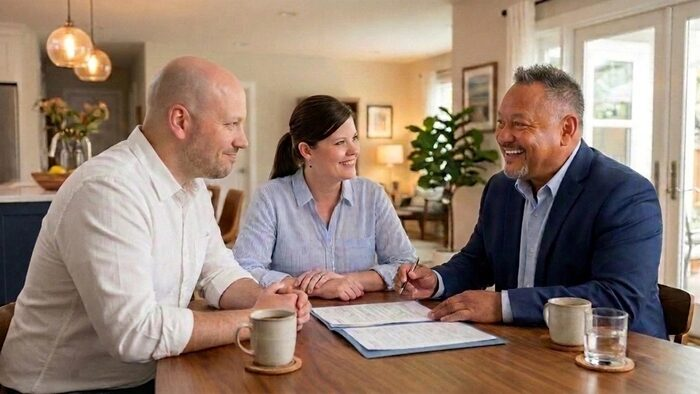
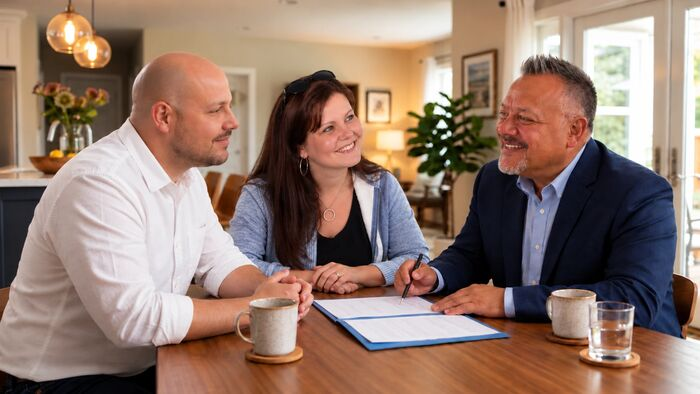
Update picture 3 with higher-resolution kitchen table photo
New photo at 700/1100/1576px (replaces the 967px-max version), so it's
sharp on high-DPI screens; same 16:9 size as picture 2. Version 20261008c.

Claude-Session: https://claude.ai/code/session_01LULKfrfoqBWvdotWMRfoLK

diff --git a/index.html b/index.html
@@ -414,13 +414,13 @@
         <figure class="feature-photo feature-photo--narrow">
           <picture>
             <source type="image/webp"
-                    srcset="assets/kitchen-table-700.webp?v=20261008b 700w, assets/kitchen-table-967.webp?v=20261008b 967w"
+                    srcset="assets/kitchen-table-700.webp?v=20261008c 700w, assets/kitchen-table-1100.webp?v=20261008c 1100w, assets/kitchen-table-1576.webp?v=20261008c 1576w"
                     sizes="(min-width: 820px) 788px, calc(100vw - 32px)">
-            <img src="assets/kitchen-table-967.jpg?v=20261008b"
-                 srcset="assets/kitchen-table-700.jpg?v=20261008b 700w, assets/kitchen-table-967.jpg?v=20261008b 967w"
+            <img src="assets/kitchen-table-1100.jpg?v=20261008c"
+                 srcset="assets/kitchen-table-700.jpg?v=20261008c 700w, assets/kitchen-table-1100.jpg?v=20261008c 1100w, assets/kitchen-table-1576.jpg?v=20261008c 1576w"
                  sizes="(min-width: 820px) 788px, calc(100vw - 32px)"
                  alt="Nate Hall smiling as he goes over paperwork with a couple at their kitchen table"
-                 width="967" height="544" loading="lazy" decoding="async">
+                 width="1576" height="887" loading="lazy" decoding="async">
           </picture>
         </figure>
 

diff --git a/CLAUDE.md b/CLAUDE.md
@@ -89,9 +89,9 @@ Form checkbox values (must match `$allowed` in `contact.php`): `Life insurance`,
   above the "Get to Know Me" heading (`.feature-photo.feature-photo--narrow`, lazy-loaded, responsive `srcset`).
   Its URLs carry `?v=YYYYMMDD` as well — bump it when the photo changes. Cropped to 16:9.
   Owner asked for it to match picture 3: same 16:9 ratio and same width (max 788px, centered).
-- `assets/kitchen-table-{700,967}.{webp,jpg}`: photo of Nate with a couple at a kitchen table, shown above the
-  "Common Questions" heading inside the FAQ's narrow container (same `.feature-photo.feature-photo--narrow` style, versioned URLs).
-  The original is only 975px wide, which is why it sits in the narrower FAQ column instead of full width.
+- `assets/kitchen-table-{700,1100,1576}.{webp,jpg}`: photo of Nate with a couple at a kitchen table, shown above the
+  "Common Questions" heading inside the FAQ's narrow container (same `.feature-photo.feature-photo--narrow` style,
+  versioned URLs). Same 16:9 ratio and width as picture 2 (max 788px, centered).
 - `assets/handshake-{500,840}.{webp,jpg}`: portrait (2:3) photo of Nate shaking hands with two clients outdoors.
   `.contact-photo` in the Contact section: on desktop (≥900px) it sits in the left column under the contact
   info, beside the form (grid row 2; the form spans both rows). On phones it shows after the form, max 420px wide.
